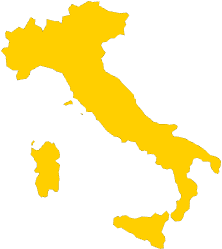
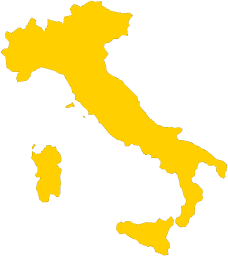
Better map positioning + implementation of pixel-by-pixel tapping, works well!

diff --git a/code/Exhibits/opening/MapScene.py b/code/Exhibits/opening/MapScene.py
@@ -12,6 +12,24 @@ START_BUTTON_TEXT_COLOR = [0, 0, 0]
 
 COUNTRIES_DATA = [
 	{'key': 'spain', 'image': 'spain-map-normal', 'selectedImage': 'spain-map-selected', 'x': 494, 'y': 638, 'nameImage': 'spain-name', 'nameX': 587, 'nameY': 681},
+	{'key': 'portugal', 'image': 'portugal-map-normal', 'selectedImage': 'portugal-map-selected', 'x': 488, 'y': 678, 'nameImage': 'portugal-name', 'nameX': 499, 'nameY': 734},
+	{'key': 'israel', 'image': 'israel-map-normal', 'selectedImage': 'israel-map-selected', 'x': 1321, 'y': 882, 'nameImage': 'israel-name', 'nameX': 1336, 'nameY': 888},
+	{'key': 'turkey', 'image': 'turkey-map-normal', 'selectedImage': 'turkey-map-selected', 'x': 1144, 'y': 675, 'nameImage': 'turkey-name', 'nameX': 1276, 'nameY': 736},
+	{'key': 'greece', 'image': 'greece-map-normal', 'selectedImage': 'greece-map-selected', 'x': 1029, 'y': 683, 'nameImage': 'greece-name', 'nameX': 1030, 'nameY': 729},
+	{'key': 'italy', 'image': 'italy-map-normal', 'selectedImage': 'italy-map-selected', 'x': 780, 'y': 556, 'nameImage': 'italy-name', 'nameX': 808, 'nameY': 598},
+	{'key': 'slovenia', 'image': 'slovenia-map-normal', 'selectedImage': 'slovenia-map-selected', 'x': 907, 'y': 664, 'nameImage': 'slovenia-name', 'nameX': 907, 'nameY': 574},
+	{'key': 'hungary', 'image': 'hungary-map-normal', 'selectedImage': 'hungary-map-selected', 'x': 959, 'y': 519, 'nameImage': 'hungary-name', 'nameX': 963, 'nameY': 543},
+	{'key': 'austria', 'image': 'austria-map-normal', 'selectedImage': 'austria-map-selected', 'x': 831, 'y': 508, 'nameImage': 'austria-name', 'nameX': 873, 'nameY': 528},
+	{'key': 'switzerland', 'image': 'switzerland-map-normal', 'selectedImage': 'switzerland-map-selected', 'x': 764, 'y': 538, 'nameImage': 'switzerland-name', 'nameX': 772, 'nameY': 554},
+	{'key': 'france', 'image': 'france-map-normal', 'selectedImage': 'france-map-selected', 'x': 578, 'y': 456, 'nameImage': 'france-name', 'nameX': 663, 'nameY': 523},
+	{'key': 'germany', 'image': 'germany-map-normal', 'selectedImage': 'germany-map-selected', 'x': 760, 'y': 350, 'nameImage': 'germany-name', 'nameX': 799, 'nameY': 434},
+	{'key': 'belgium', 'image': 'belgium-map-normal', 'selectedImage': 'belgium-map-selected', 'x': 710, 'y': 447, 'nameImage': 'belgium-name', 'nameX': 716, 'nameY': 449},
+	{'key': 'netherlands', 'image': 'netherlands-map-normal', 'selectedImage': 'netherlands-map-selected', 'x': 717, 'y': 594, 'nameImage': 'netherlands-name', 'nameX': 734, 'nameY': 407},
+	{'key': 'uk', 'image': 'uk-map-normal', 'selectedImage': 'uk-map-selected', 'x': 522, 'y': 175, 'nameImage': 'uk-name', 'nameX': 591, 'nameY': 403},
+	{'key': 'denmark', 'image': 'denmark-map-normal', 'selectedImage': 'denmark-map-selected', 'x': 797, 'y': 271, 'nameImage': 'denmark-name', 'nameX': 803, 'nameY': 318},
+	{'key': 'sweden', 'image': 'sweden-map-normal', 'selectedImage': 'sweden-map-selected', 'x': 848, 'y': 0, 'nameImage': 'sweden-name', 'nameX': 860, 'nameY': 221},
+	{'key': 'finland', 'image': 'finland-map-normal', 'selectedImage': 'finland-map-selected', 'x': 1006, 'y': 0, 'nameImage': 'finland-name', 'nameX': 1027, 'nameY': 144},
+	{'key': 'norway', 'image': 'norway-map-normal', 'selectedImage': 'norway-map-selected', 'x': 738, 'y': 0, 'nameImage': 'norway-name', 'nameX': 772, 'nameY': 181}
 ]
 
 class MapScene(Scene):
@@ -19,16 +37,16 @@ class MapScene(Scene):
 		super().__init__(game)
 
 		self.titles = []
+		self.selectedCountry = None
 
 		self.background = pygame.image.load('assets/images/opening/map/map-background.png')
 
 		for countryData in COUNTRIES_DATA:
-			image = pygame.image.load('assets/images/opening/map/' + countryData['image'] + '.png')
-			selectedImage = pygame.image.load('assets/images/opening/map/' + countryData['selectedImage'] + '.png')
-			mapButton = Button(self.screen, pygame.Rect(countryData['x'], countryData['y'], image.get_width(), image.get_height()), 
-					image, selectedImage, None, None, None, None, partial(self.onCountryClick, countryData['key']))
+			image = pygame.image.load('assets/images/opening/map/' + countryData['image'] + '.png').convert_alpha()
+			selectedImage = pygame.image.load('assets/images/opening/map/' + countryData['selectedImage'] + '.png').convert_alpha()
 
-			self.buttons.append(mapButton)
+			countryData['image'] = image
+			countryData['selectedImage'] = selectedImage
 
 			title = pygame.image.load('assets/images/opening/map/' + countryData['nameImage'] + '-' + self.config.languagePrefix + '.png')
 			self.titles.append({'position': (countryData['nameX'], countryData['nameY']), 'image': title})
@@ -45,8 +63,43 @@ class MapScene(Scene):
 	def createTexts(self):
 		pass
 
+	def getCountryAtPos(self, pos):
+		for country in COUNTRIES_DATA:
+			image = country['image']
+			rect = Rect(country['x'], country['y'], image.get_width(), image.get_height())
+			if rect.collidepoint(pos):
+				alpha = image.get_at((pos[0] - country['x'], pos[1] - country['y'])).a
+				if alpha > 0:
+					return country
+
+		return None
+
+	def onMouseDown(self, pos):
+		super().onMouseDown(pos)
+
+		country = self.getCountryAtPos(pos)
+		if country is not None:
+			self.selectedCountry = country
+
+	def onMouseUp(self, pos):
+		super().onMouseUp(pos)
+		self.selectedCountry = None
+
+		if self.selectedCountry is not None:
+			country = self.getCountryAtPos(pos)
+			if country == self.selectedCountry:
+				self.onCountryClick(country['key'])
+
 	def draw(self, dt):
-		self.screen.blit(self.background, (0,0))
+		self.screen.blit(self.background, (6,0))
+
+		for countryData in COUNTRIES_DATA:
+			if countryData == self.selectedCountry:
+				self.screen.blit(countryData['selectedImage'], (countryData['x'], countryData['y']))
+			else:
+				self.screen.blit(countryData['image'], (countryData['x'], countryData['y']))
+
 		for title in self.titles:
 			self.screen.blit(title['image'], title['position'])
+
 		super().draw(dt)
